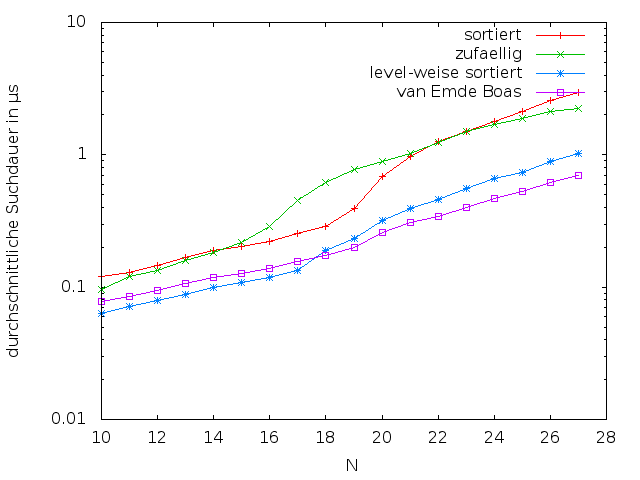
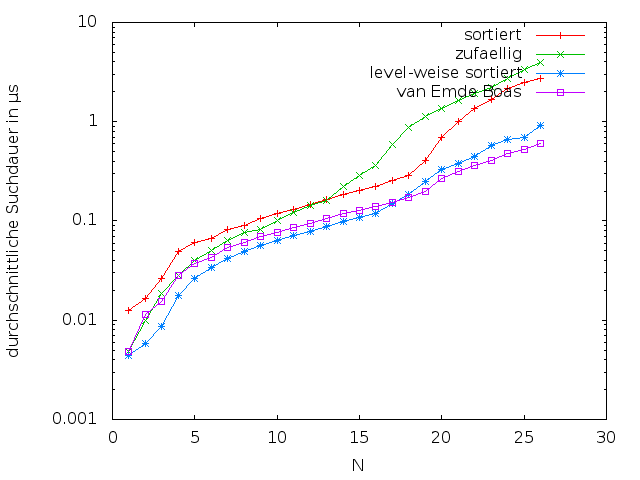
fertig

diff --git a/vEB/test.cpp b/vEB/test.cpp
@@ -10,22 +10,6 @@
 
 using namespace std;
 
-template <class Iter>
-bool mybinary(Iter first, Iter last, int what)
-{
-	while(last > first)
-	{
-		auto middle = first + (last-first)/2;
-		if(what < *middle)
-			last = middle;
-		else if(what > *middle)
-			first = middle + 1;
-		else 
-			return true;
-	}
-	return false;
-}
-
 
 int main()
 {
@@ -38,66 +22,66 @@ int main()
 	vector<int> v(N);
 	generate(v.begin(), v.end(), rand);
 
-	sort(v.begin(), v.end());
 
 	vector<int> search(R);
-	generate_n(search.begin(), R, rand);
+	generate(search.begin(), search.end(), rand);
 
 	vector<bool> ergs(R);
 
-	auto t1 = chrono::high_resolution_clock::now();
-	for(unsigned i=0; i<R; i++)
+	//sorted Tree
 	{
-		ergs[i] = binary_search(v.begin(), v.end(), search[i]);
-	}
-	auto t2 = chrono::high_resolution_clock::now();
-	cout << (chrono::duration_cast<chrono::duration<double>>(t2-t1)).count() << " ";
-
-	/*
-	t1 = chrono::high_resolution_clock::now();
-	for(unsigned i=0; i<R; i++)
-	{
-		if(ergs[i] != mybinary(v.begin(), v.end(), search[i]))
-			cout << "gna2" << endl;
-	}
-	t2 = chrono::high_resolution_clock::now();
-	cout << (chrono::duration_cast<chrono::duration<double>>(t2-t1)).count() << " ";
-	*/
-
-	{
-		RandTree<int, H> randt(v.data());
-		t1 = chrono::high_resolution_clock::now();
+		sort(v.begin(), v.end());
+		auto t1 = chrono::high_resolution_clock::now();
 		for(unsigned i=0; i<R; i++)
 		{
+			ergs[i] = binary_search(v.begin(), v.end(), search[i]);
+		}
+		auto t2 = chrono::high_resolution_clock::now();
+		cout << (chrono::duration_cast<chrono::duration<double>>(t2-t1)).count() << " ";
+	}
+
+	//RandTree
+	{
+		random_shuffle(v.begin(), v.end());
+		RandTree<int, H> randt(v.data());
+		auto t1 = chrono::high_resolution_clock::now();
+		for(unsigned i=0; i<R; i++)
+		{
+			randt.search(search[i]);
 			if(ergs[i] != randt.search(search[i]))
 				cout << "gna1" << endl;
 		}
-		t2 = chrono::high_resolution_clock::now();
+		auto t2 = chrono::high_resolution_clock::now();
 		cout << (chrono::duration_cast<chrono::duration<double>>(t2-t1)).count() << " ";
 	}
 
+	//Level sorted Tree
 	{
+		sort(v.begin(), v.end());
 		LevelSortedTree<int, H> lst(v.data());
-		t1 = chrono::high_resolution_clock::now();
+		auto t1 = chrono::high_resolution_clock::now();
 		for(unsigned i=0; i<R; i++)
 		{
+			lst.search(search[i]);
 			if(ergs[i] != lst.search(search[i]))
 				cout << "gna3" << endl;
 		}
-		t2 = chrono::high_resolution_clock::now();
+		auto t2 = chrono::high_resolution_clock::now();
 		cout << (chrono::duration_cast<chrono::duration<double>>(t2-t1)).count() << " ";
 	}
 
+	//vEB
 	{
 		VEB<int, H> veb(v.data());
-		t1 = chrono::high_resolution_clock::now();
+		auto t1 = chrono::high_resolution_clock::now();
 		for(unsigned i=0; i<R; i++)
 		{
+			veb.search(search[i]);
 			if(ergs[i] != veb.search(search[i]))
 				cout << "gna4" << endl;
 		}
-		t2 = chrono::high_resolution_clock::now();
-		cout << (chrono::duration_cast<chrono::duration<double>>(t2-t1)).count()<< " ";
+		auto t2 = chrono::high_resolution_clock::now();
+		cout << (chrono::duration_cast<chrono::duration<double>>(t2-t1)).count();
 	}
 
 	cout << endl;

diff --git a/vEB/Trees.hpp b/vEB/Trees.hpp
@@ -5,55 +5,79 @@
 #include <algorithm>
 #include <iostream>
 #include <cstdlib>
+#include <utility>
+
+using namespace std;
+
 
 template <class T, size_t h>
 class RandTree
 {
 private:
-	std::unique_ptr<RandTree<T, h-1>> left, right;
-	T data;
-	
+	struct RandTreeNode
+	{
+		RandTreeNode *left, *right;
+		T data;
+
+		RandTreeNode():left(0), right(0){}
+	};
+
+	RandTreeNode nodes[(1<<h)-1];
+	RandTreeNode* root;
+
+	void set(RandTreeNode** toSet, size_t hh, pair<T, size_t>* ar)
+	{
+		size_t middle = (1<<(hh-1)) - 1;
+		*toSet = &nodes[ar[middle].second];
+
+		if(hh > 1)
+		{
+			set(&(*toSet)->left, hh-1, ar);
+			set(&(*toSet)->right, hh-1, ar + middle + 1);
+		}
+	}
+
 public:
 	constexpr static size_t size()
 	{
 		return (1<<h) - 1;
 	}
 
-	RandTree(T* ar):left(new RandTree<T, h-1>(ar)), right(new RandTree<T, h-1>(ar + size()/2 + 1)), data(ar[size()/2])
+	RandTree(T* ar)
 	{
+		pair<T, size_t> tmp[size()];//gibt an, welcher Knoten sich wo in nodes befindet
+
+		for(size_t i = 0; i < size(); i++)
+		{
+			nodes[i].data = ar[i];
+			tmp[i] = {ar[i], i};
+		}
+
+		sort(tmp, tmp+size(), [](const pair<T, size_t>& p1, const pair<T, size_t>& p2){return p1.first < p2.first;});
+
+		if(h == 27)
+			cout << "vor set" << endl;
+
+		set(&root, h, tmp);
+
+		if(h == 27)
+			cout << "nach set" << endl;
 	}
 
 	bool search(const T& k) const
 	{
-		if(k == data)
-			return true;
-		if(k < data)
-			return left->search(k);
-		return right->search(k);
-	}
-};
+		RandTreeNode* node = root;
+		while(node->left && node->right)
+		{
+			if(k < node->data)
+				node = node->left;
+			else if(k > node->data)
+				node = node->right;
+			else
+				return true;
+		}
 
-
-template <class T>
-class RandTree<T, 1>
-{
-private:
-	T data;
-
-public:
-	constexpr static size_t size()
-	{
-		return 1;
-	}
-
-	RandTree(T* ar):data(*ar)
-	{
-		//std::cout << reinterpret_cast<size_t>(this) << std::endl;
-	}
-
-	bool search(const T& k) const
-	{
-		return k == data;
+		return node->data == k;
 	}
 };
 
